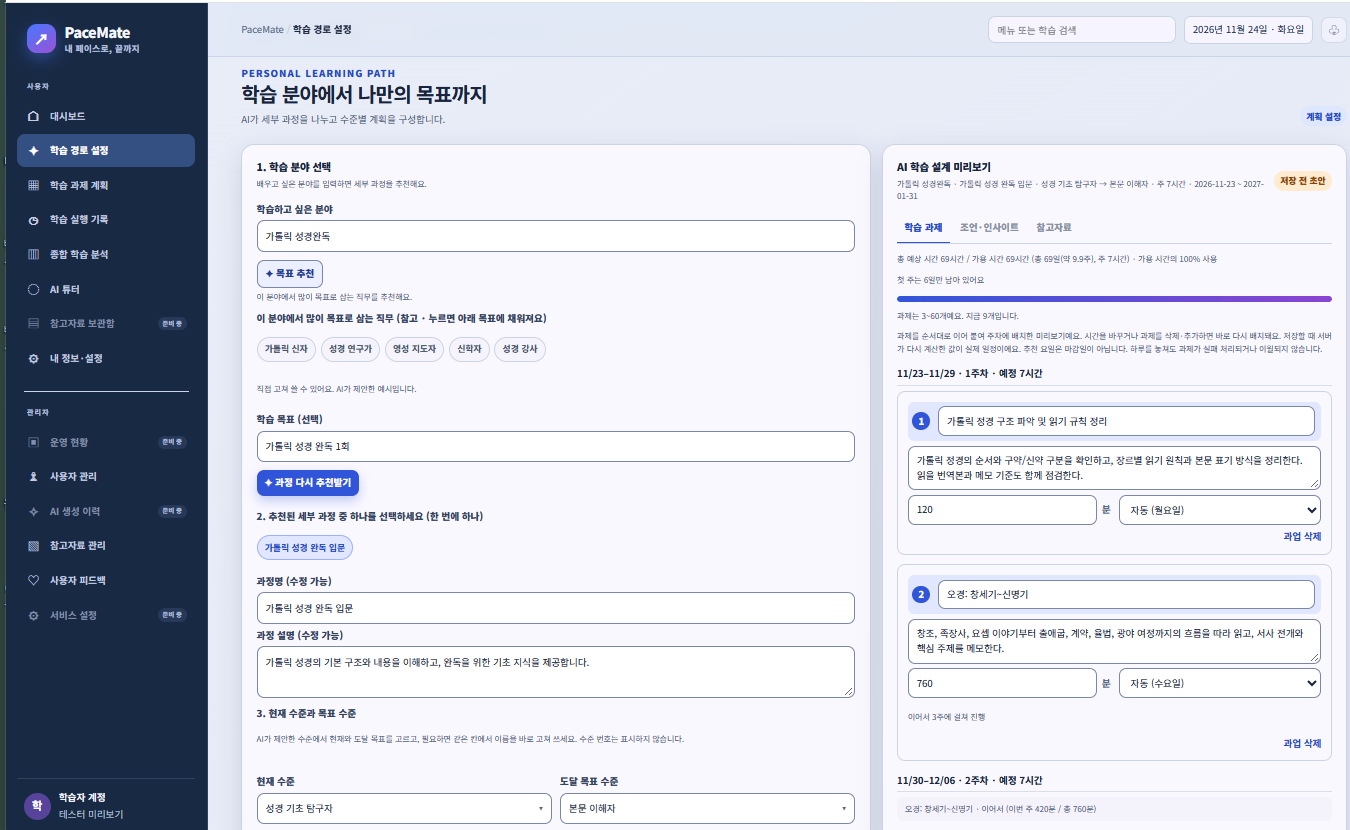
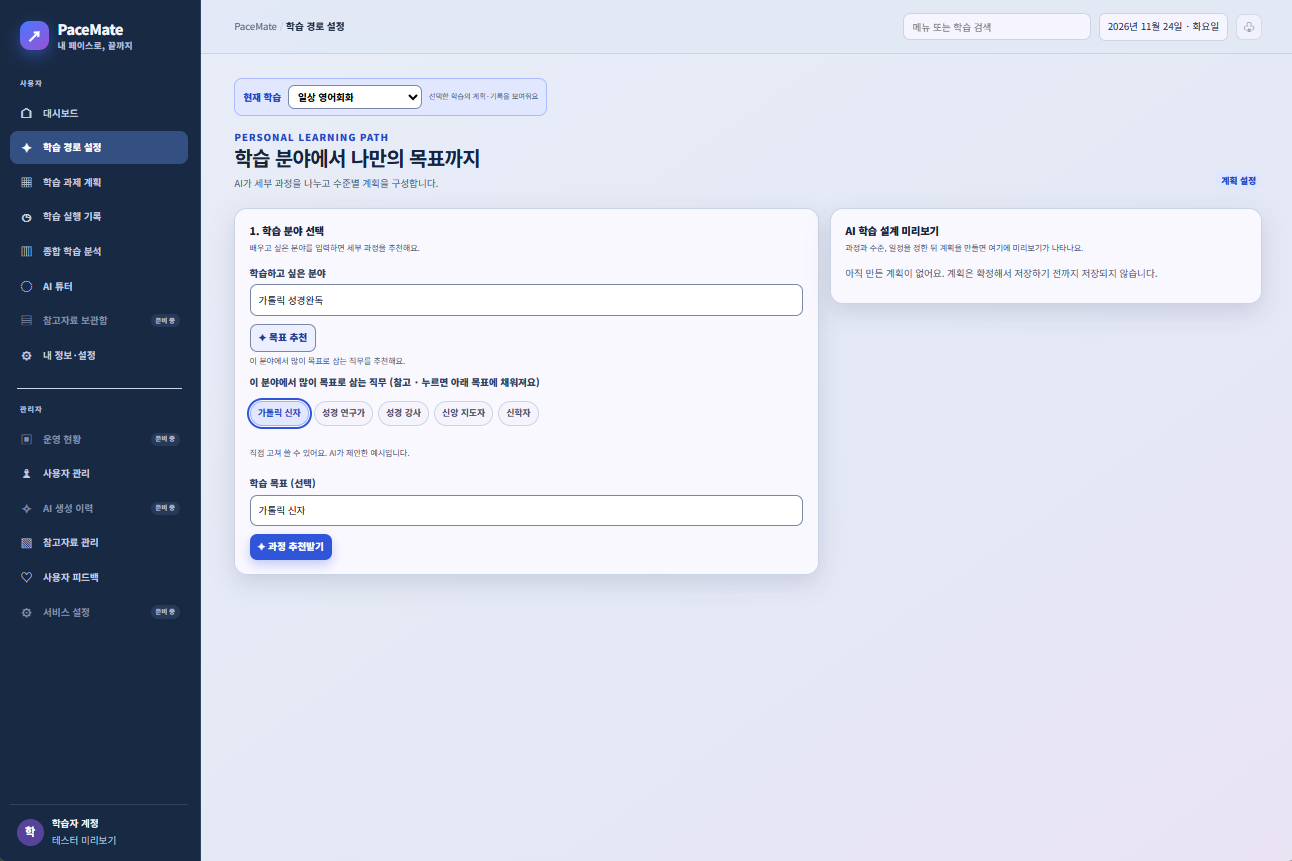
docs: user manual with 10 screen captures matched to the deployed screens
- 사용자매뉴얼.md rewritten from the captures (corrected 종합 학습 분석, 학습 2개 제한, 3-button leave dialog)
- images/manual: 02-11 (admin user-list capture kept local via gitignore)
- manual_capture_list updated

diff --git a/사용자매뉴얼.md b/사용자매뉴얼.md
@@ -21,94 +21,103 @@
 
 | 메뉴 | 하는 일 |
 |---|---|
-| 대시보드 | 오늘 할 과제와 진행률을 한눈에 봅니다. |
-| 학습 경로 설정 | 분야, 현재 수준, 목표, 기간을 정하고 AI 추천을 받습니다. |
-| 학습 과제 계획 | AI 가 제안한 과제를 고치고 확정합니다. |
-| 학습 실행 기록 | 타이머나 직접 입력으로 공부 시간을 기록하고 완료 처리, 한 줄 회고를 씁니다. |
-| 종합 학습 분석 | AI 인사이트(학습 패턴 분석)를 받습니다. |
+| 대시보드 | 진행 중인 학습의 진행률과 오늘의 추천 과제를 한눈에 봅니다. |
+| 학습 경로 설정 | 분야, 현재·목표 수준, 기간을 정하고 AI 가 만든 학습 계획 초안을 확정합니다. |
+| 학습 과제 계획 | 확정한 계획을 주 단위로 보고, 과제별 추천 요일을 바꾸고, AI 학습 조언과 연결된 참고자료를 봅니다. |
+| 학습 실행 기록 | 타이머나 직접 입력으로 공부 시간을 기록하고, 과제를 완료 처리하고, 회고를 남깁니다. |
+| 종합 학습 분석 | 진행 중인 학습의 일정, 일자별 투입 시간, 진행률을 한눈에 봅니다(읽기 전용). |
 | AI 튜터 | 공부하다 막힌 것을 질문합니다. |
 | 내 정보·설정 | 다른 기기에서 이어 쓰기, 학습 데이터 삭제, 피드백 보내기를 합니다. |
 
 ## 3. 이렇게 사용합니다 (순서대로)
 
 ### 3-1. 학습 경로 설정
-1. 공부하려는 **분야**를 입력하고 **목표 추천** 을 누르면, AI 가 그 분야에서 많이 목표로 삼는 직무를 예시로 보여 줍니다. 직무를 누르면 학습 목표 칸에 채워집니다. 직접 고쳐 써도 됩니다.
-2. **과정 다시 추천받기** 를 누르면 AI 가 세부 과정을 제안합니다. 마음에 드는 과정 하나를 고르면 과정명과 설명을 고칠 수 있습니다.
-3. **현재 수준** 과 **도달 목표 수준** 을 고르고 기간과 주당 시간을 정합니다.
-4. 화면 오른쪽의 **AI 학습 설계 미리보기** 에 주차별 과제 초안이 나타납니다. 이 초안은 **저장 전 초안** 입니다.
+1. 공부하려는 **분야**를 입력하고 **목표 추천** 을 누르면, AI 가 그 분야에서 많이 목표로 삼는 직무를 예시로 보여 줍니다. 직무를 누르면 **학습 목표** 칸에 채워집니다. 직접 고쳐 써도 됩니다.
+2. **과정 추천받기** 를 누르면 AI 가 세부 과정을 제안합니다. 마음에 드는 과정 하나를 고르면 과정명과 설명을 고칠 수 있습니다.
 
-![학습 경로 설정 화면: 왼쪽에서 분야·목표·과정·수준을 정하고 오른쪽에서 AI 가 만든 과제 초안을 미리 봅니다](images/manual/02_학습경로_입력.png)
+![학습 경로 설정 화면: 분야를 입력하고 목표 추천을 받은 상태. 오른쪽 미리보기는 아직 비어 있습니다](images/manual/02_학습경로_입력.png)
 
-<!-- 캡처 03: 학습 경로 설정 - 현재·목표 수준과 기간 선택(화면 아래쪽) -->
+3. **현재 수준** 과 **도달 목표 수준** 을 고르고, 주간 학습 가능 시간과 학습 시작일, 목표 완료 희망일을 정합니다. 수준은 번호가 아니라 분야별 서술형 이름으로 보여 줍니다. 같은 기간에 진행할 수 있는 학습은 최대 2개입니다.
+4. **과제·조언·참고자료 만들기** 를 누릅니다.
 
-- 수준은 번호가 아니라 분야별 서술형 이름으로 보여 줍니다.
+![과정과 수준을 고르고 기간을 정하는 화면](images/manual/03_학습경로_AI추천.png)
 
-### 3-2. 학습 과제 계획 (확정)
-AI 가 학습 기간에 맞춰 주차별 과제 초안을 만듭니다. 과제마다 이름, 설명, 소요 시간(분), 요일을 보고 고치거나 **과업 삭제** 로 뺄 수 있습니다(위 화면의 오른쪽). 총 예상 시간과 가용 시간, 주차별 예정 시간도 함께 보여 줍니다. 미리보기를 확인한 뒤 **계획 확정** 을 누르면 그때 저장됩니다. 확정하기 전에는 저장되지 않습니다.
+5. 화면 오른쪽의 **AI 학습 설계 미리보기** 에 주차별 과제 초안이 나타납니다. 이 초안은 **저장 전 초안** 입니다. 과제마다 이름, 설명, 소요 시간(분), 요일을 고치거나 **과업 삭제** 로 뺄 수 있습니다. 총 예상 시간과 가용 시간, 주차별 예정 시간도 함께 보여 줍니다. 초안을 확인한 뒤 **계획 확정** 을 누르면 그때 저장됩니다. 확정하기 전에는 저장되지 않습니다.
 
-<!-- 캡처 04: 학습 과제 계획 - 초안과 계획 확정 -->
+![AI 학습 설계 미리보기: 주차별 과제 초안(저장 전 초안)](images/manual/04_AI설계_미리보기.png)
+
+- 작성 중에 다른 메뉴로 이동하려 하면 **이동 / 계획 제거 / 취소** 를 고르는 창이 나옵니다. **이동** 은 작성 내용을 이 탭에 보관한 채 이동하고(돌아오면 이어서 쓸 수 있음), **계획 제거** 는 작성 중인 내용을 지우고 이동하며, **취소** 는 화면에 머뭅니다. 탭을 닫으면 보관된 내용은 사라집니다.
+
+### 3-2. 학습 과제 계획
+확정한 계획을 주 단위로 봅니다. **이전 주 / 다음 주** 로 주를 옮기고, 과제마다 **추천 요일** 을 바꿀 수 있습니다(변경은 자동 저장됩니다). 오른쪽에는 **AI 학습 조언** 과 **연결된 참고자료**(원문 보기 링크)가 있습니다. 위쪽의 **현재 학습** 에서 다른 학습으로 바꿔 볼 수 있습니다.
+
+![학습 과제 계획: 주간 과제, AI 학습 조언, 연결된 참고자료](images/manual/05_주간학습계획.png)
 
 - 과제의 **추천 요일은 마감일이 아닙니다.** 놓쳐도 연체나 실패로 처리하지 않습니다.
+- **직접 검색해 보기**(구글, 공식 문서, 유튜브) 링크는 팀이 검토하기 전의 외부 링크라고 표시됩니다.
 
 ### 3-3. 학습 실행 기록
-과제를 골라 **타이머**로 공부 시간을 재거나 시간을 직접 입력해 기록합니다. 최대 2개 과제를 동시에 진행할 수 있습니다. 끝나면 **완료 처리** 를 누르고 **한 줄 회고** 를 남깁니다.
+오른쪽 **새 학습 기록** 에서 학습 과제를 고르고 **타이머**로 공부 시간을 재거나, 학습 날짜와 시간(분)을 직접 입력해 기록합니다. 실행 내용과 **오늘의 회고**(선택), 회고 태그도 남길 수 있습니다. 왼쪽 **과제별 학습 기록** 에는 과제마다 기록이 쌓이고, 끝난 과제는 **과제 완료 처리** 를 눌러 완료합니다.
 
-<!-- 캡처 05: 학습 실행 기록 - 타이머 -->
-<!-- 캡처 06: 학습 실행 기록 - 완료 처리와 한 줄 회고 -->
+![학습 실행 기록: 이번 주 통계, 과제별 기록, 타이머와 새 기록 입력](images/manual/06_실행기록_타이머.png)
 
+- 위쪽 카드는 이번 주 학습시간, 학습 기록 수, 진행 중 과제 수, 주간 목표 달성률을 보여 줍니다.
+- **인사이트 만들기** 를 누르면 최근 14일의 기록과 회고로 AI 인사이트를 만듭니다.
 - 진행률은 **완료한 과제 수 / 전체 과제 수** 입니다.
 - 회고는 이후 AI 튜터의 답변에 반영됩니다(최근 회고 최대 5건).
 
 ### 3-4. AI 튜터
-공부하다 막힌 것을 질문하면 AI 가 학습 요약과 내 회고를 바탕으로 답합니다. 답변에는 **출처**가 붙습니다. 참고자료가 없는 분야는 근거가 없다고 안내합니다.
+공부하다 막힌 것을 질문하면 AI 가 등록한 학습 요약과 내 회고를 바탕으로 답합니다. 답변 아래에 **출처** 가 표시되고, 오른쪽 **답변 참고 정보** 에는 참고한 학습 요약, 최근 회고, 참고자료가 나옵니다. 왼쪽 **대화 기록** 에서 이전 대화를 이어서 질문할 수 있습니다. 학습과 관련 없는 질문에는 답하지 않습니다.
 
-<!-- 캡처 07: AI 튜터 - 질문과 출처가 붙은 답변 -->
+![AI 튜터: 질문과 답변, 답변 참고 정보](images/manual/07_튜터_답변.png)
 
 - AI 의 답은 참고용입니다. 틀린 내용이 있으면 피드백으로 알려 주세요.
+- 참고자료가 없는 분야는 근거가 없다고 안내합니다.
 
 ### 3-5. 종합 학습 분석
-기록과 회고를 바탕으로 AI 가 학습 패턴과 다음에 할 일을 정리합니다.
+진행 중인 학습마다 일정, 진행률(완료 과제 수), 이번 주 일자별 투입 시간(분)을 막대로 보여 줍니다. 완료된 학습은 포함하지 않습니다. 읽기 전용 화면입니다.
 
-<!-- 캡처 08: 종합 학습 분석 - AI 인사이트 -->
+![종합 학습 분석: 학습별 진행률과 일자별 투입 시간](images/manual/08_종합분석.png)
 
 ### 3-6. 대시보드
 진행 중인 모든 학습의 진행률, 완료한 과제 수, 이번 주 학습 시간과 기록 횟수, 오늘의 추천 과제를 한눈에 보여 줍니다. 완료한 과제가 없으면 진행률이 **0%** 로 보이는 것은 정상입니다(아래 화면의 "일상 영어회화").
 
 ![대시보드: 진행 중인 학습의 진행률, 완료 과제, 이번 주 학습, 오늘의 추천 과제](images/manual/09_대시보드.png)
 
-## 4. 다른 기기에서 이어 쓰기 (암호)
+## 4. 내 정보·설정
+
+**내 정보와 개인정보** 화면에서 아래 일을 합니다.
+
+![내 정보·설정: 데이터 삭제, 이어 쓰기, 테스트 피드백](images/manual/10_설정_이어쓰기.png)
+
+### 4-1. 다른 기기에서 이어 쓰기 (암호)
 
 PC 에서 쓰던 기록을 휴대폰이나 다른 PC 에서도 보고 싶을 때 씁니다.
 
 1. **등록:** 쓰던 기기에서 **내 정보·설정 → 다른 기기에서 이어 쓰기** 카드에 암호와 암호 확인을 입력합니다. 암호는 8자 이상, 영문·숫자·특수문자를 모두 포함하고 공백이 없어야 합니다.
-2. **다른 기기에서:** 첫 화면 위쪽의 **암호로 로그인** 을 누르고 암호를 입력합니다. 이때 "동의하고 시작하기"를 먼저 누르지 마세요. 누르면 빈 기록이 새로 생깁니다.
+2. **다른 기기에서:** 첫 화면 위쪽의 **암호로 로그인** 을 누르고 암호를 입력합니다. 이때 "동의하고 시작하기"를 먼저 누르지 마세요. 누르면 빈 기록이 새로 생깁니다. 이미 다른 기록으로 들어가 있는 기기라면 **다른 기기에서 등록한 암호로 로그인** 을 누릅니다.
 3. **암호는 꼭 메모하거나 저장하세요.** "암호 찾기"는 없습니다. 로그인된 기기가 남아 있으면 **암호 바꾸기** 로 새 암호를 정할 수 있지만, 모든 기기에서 로그아웃된 상태로 암호를 잊으면 그 기록은 되찾을 수 없습니다.
-4. 같은 곳에서 여러 번 틀리면 10분 정도 로그인이 막힙니다.
+4. 같은 곳에서 여러 번 틀리면 10분 정도 로그인이 막힙니다. **암호 로그인 끄기** 로 이 기능을 끌 수 있고, **로그아웃** 도 같은 카드에 있습니다.
 
-<!-- 캡처 10: 내 정보·설정 - 다른 기기에서 이어 쓰기 -->
+### 4-2. 내 데이터 지우기
 
-## 5. 내 데이터 지우기
+**내 학습 데이터 삭제 요청** 으로 모든 학습 기록(목표, 과제, 기록, 회고, AI 튜터 대화, 동의 기록)과 익명 계정을 지울 수 있습니다. 되돌릴 수 없습니다.
 
-**내 정보·설정 → 내 학습 데이터 삭제** 로 모든 학습 기록을 지울 수 있습니다. 되돌릴 수 없습니다.
+### 4-3. 의견 보내기
 
-## 6. 의견 보내기
+불편한 점, 오류, 이상한 AI 답이 보이면 **테스트 피드백** 카드로 보내 주세요(사용 편의성과 AI 답변 유용성 1~5점, 해당 화면, 의견은 선택).
 
-불편한 점, 오류, 이상한 AI 답이 보이면 **내 정보·설정 → 테스트 피드백** 카드로 보내 주세요.
+## 5. 관리자 화면 (관리자 전용)
 
-## 7. 관리자 화면 (관리자 전용)
+관리자 계정에는 운영 메뉴가 추가로 보입니다(사용자 관리, 참고자료 관리, 사용자 피드백). 사용자 관리는 읽기 전용이며 학습 내용과 개인 식별 정보는 표시하지 않습니다.
 
-관리자 계정에는 운영 메뉴가 추가로 보입니다.
+**참고자료 관리** 에서는 링크를 모아 검사하고, 검토한 자료만 학습자에게 참고 링크로 보여 줍니다. 수집은 관리자가 버튼을 누를 때만 일어나고, **검토 대기** 자료는 학습자에게 보이지 않습니다. 승인한 자료만 참고 링크가 됩니다.
 
-| 메뉴 | 하는 일 |
-|---|---|
-| 사용자 관리 | 사용자 현황을 확인합니다. |
-| 참고자료 관리 | AI 튜터가 쓰는 검토된 참고자료와 후보 자료를 관리합니다. |
-| 사용자 피드백 | 사용자가 보낸 피드백을 확인합니다. |
+![참고자료 관리(관리자): 수집기 상태와 링크 직접 입력](images/manual/11_관리자_참고자료관리.png)
 
-<!-- 캡처 11: 관리자 - 참고자료 관리 또는 사용자 피드백 -->
+## 6. 자주 묻는 질문
 
-## 8. 자주 묻는 질문
-
-- **진행률이 0% 예요.** 완료 처리한 과제가 없으면 0% 입니다. 학습 실행 기록에서 과제를 **완료 처리** 하면 올라갑니다.
+- **진행률이 0% 예요.** 완료 처리한 과제가 없으면 0% 입니다. 학습 실행 기록에서 과제를 **과제 완료 처리** 하면 올라갑니다.
 - **AI 가 틀린 답을 줬어요.** AI 의 답은 참고용입니다. 교재나 공식 자료로 확인하고, 내 정보·설정의 피드백으로 알려 주세요.
 - **처음 열 때 오래 걸려요.** 무료 서버가 깨어나는 시간입니다. 1분 정도 기다려 주세요.
+- **작성하던 계획이 사라졌어요.** 작성 중인 내용은 이 브라우저 탭에 보관됩니다. 탭을 닫았거나 다른 브라우저·기기에서 열었다면 보이지 않습니다. 계획은 **확정** 했을 때만 저장됩니다.

diff --git a/docs/manual_capture_list.md b/docs/manual_capture_list.md
@@ -1,29 +1,23 @@
 # 사용자 매뉴얼 캡처 목록 (작업용)
 
-`사용자매뉴얼.md` 의 `<!-- 캡처 NN -->` 자리에 들어갈 화면입니다. 배포 화면(https://ai-n-fprj.vercel.app/)에서 찍어 `images/manual/` 에 아래 파일 이름으로 저장하세요. 저장한 뒤 PM 에게 알리면 매뉴얼에 붙입니다.
+`사용자매뉴얼.md` 에 들어간 화면 캡처의 현황입니다. 캡처는 `images/manual/` 에 있습니다.
 
-## 찍는 방법
-- 브라우저 창 너비 1200px 이상(대시보드 슬로건이 보임), 확대 100%.
-- 형식 PNG, 가로 1600px 안팎이면 충분합니다(너무 크면 저장소가 무거워짐).
-- **개인정보 주의:** 학습 목표나 회고는 테스트용 내용으로 입력해서 찍습니다. 관리자 화면은 사용자 목록처럼 실제 사용자 정보가 보이는 화면을 피하고, 참고자료 관리나 사용자 피드백 중 개인정보가 없는 쪽을 찍습니다. 필요하면 가립니다.
-- 발표 슬라이드의 "운영 화면 캡처" 빈칸(튜터 답변, 대시보드, 관리자 화면)에도 같은 캡처를 씁니다.
+| 번호 | 파일 | 화면 | 상태 |
+|---|---|---|---|
+| 01 | `01_시작_동의.png` | 첫 화면(개인정보·AI 사용 안내와 동의 버튼) | **없음**(매뉴얼 1장에 자리만 있음) |
+| 02 | `02_학습경로_입력.png` | 학습 경로 설정: 분야·목표 입력 | 완료 |
+| 03 | `03_학습경로_AI추천.png` | 학습 경로 설정: 과정·수준·기간 | 완료 |
+| 04 | `04_AI설계_미리보기.png` | AI 학습 설계 미리보기(저장 전 초안) | 완료 |
+| 05 | `05_주간학습계획.png` | 학습 과제 계획(주간 계획, AI 조언, 참고자료) | 완료 |
+| 06 | `06_실행기록_타이머.png` | 학습 실행 기록(타이머, 과제 완료 처리) | 완료 |
+| 07 | `07_튜터_답변.png` | AI 튜터 답변과 참고 정보 | 완료 |
+| 08 | `08_종합분석.png` | 종합 학습 분석 | 완료 |
+| 09 | `09_대시보드.png` | 대시보드 | 완료 |
+| 10 | `10_설정_이어쓰기.png` | 내 정보·설정 | 완료 |
+| 11 | `11_관리자_참고자료관리.png` | 관리자: 참고자료 관리 | 완료 |
+| - | `_비공개_관리자_사용자관리.png` | 관리자: 사용자 관리(사용자 ID 일부·접속 시각이 보임) | **올리지 않음**(`.gitignore` 로 제외, 로컬 보관) |
 
-## 목록
-
-| 번호 | 파일 이름 | 찍을 화면 |
-|---|---|---|
-| 01 | `images/manual/01_시작_동의.png` | 첫 화면(개인정보·AI 사용 안내와 동의 버튼) |
-| 02 | `images/manual/02_학습경로_입력.png` | 학습 경로 설정: 분야와 목표를 입력한 화면 |
-| 03 | `images/manual/03_학습경로_AI추천.png` | 학습 경로 설정: AI 가 과정과 서술형 수준을 제안한 화면 |
-| 04 | `images/manual/04_과제계획_확정.png` | 학습 과제 계획: 과제 초안과 계획 확정 버튼 |
-| 05 | `images/manual/05_실행기록_타이머.png` | 학습 실행 기록: 타이머가 돌고 있는 화면 |
-| 06 | `images/manual/06_실행기록_완료_회고.png` | 학습 실행 기록: 완료 처리와 한 줄 회고 |
-| 07 | `images/manual/07_튜터_답변.png` | AI 튜터: 질문과 출처가 붙은 답변 |
-| 08 | `images/manual/08_종합분석.png` | 종합 학습 분석: AI 인사이트 |
-| 09 | `images/manual/09_대시보드.png` | 대시보드(진행률이 0%가 아니면 더 좋음) |
-| 10 | `images/manual/10_설정_이어쓰기.png` | 내 정보·설정: 다른 기기에서 이어 쓰기 카드 |
-| 11 | `images/manual/11_관리자.png` | 관리자: 참고자료 관리 또는 사용자 피드백 |
-
-## 붙이는 방법 (PM)
-저장된 파일을 확인한 뒤 `사용자매뉴얼.md` 의 해당 `<!-- 캡처 NN: ... -->` 줄을 `![설명](images/manual/NN_이름.png)` 로 바꿉니다. 없는 번호는 주석으로 남겨 둡니다. 이미지 크기가 크면 줄이는 방법을 안내합니다.
-
+## 규칙
+- 개인정보가 보이는 캡처는 `images/manual/_비공개_` 로 시작하게 이름을 지으면 `.gitignore` 가 막아 저장소에 올라가지 않는다.
+- 발표 슬라이드의 "운영 화면 캡처" 빈칸(튜터 답변, 대시보드, 관리자 화면)은 07, 09, 11번 캡처를 쓴다.
+- 새 캡처를 붙일 때는 `사용자매뉴얼.md` 의 해당 자리에 `![설명](images/manual/NN_이름.png)` 를 넣는다.
